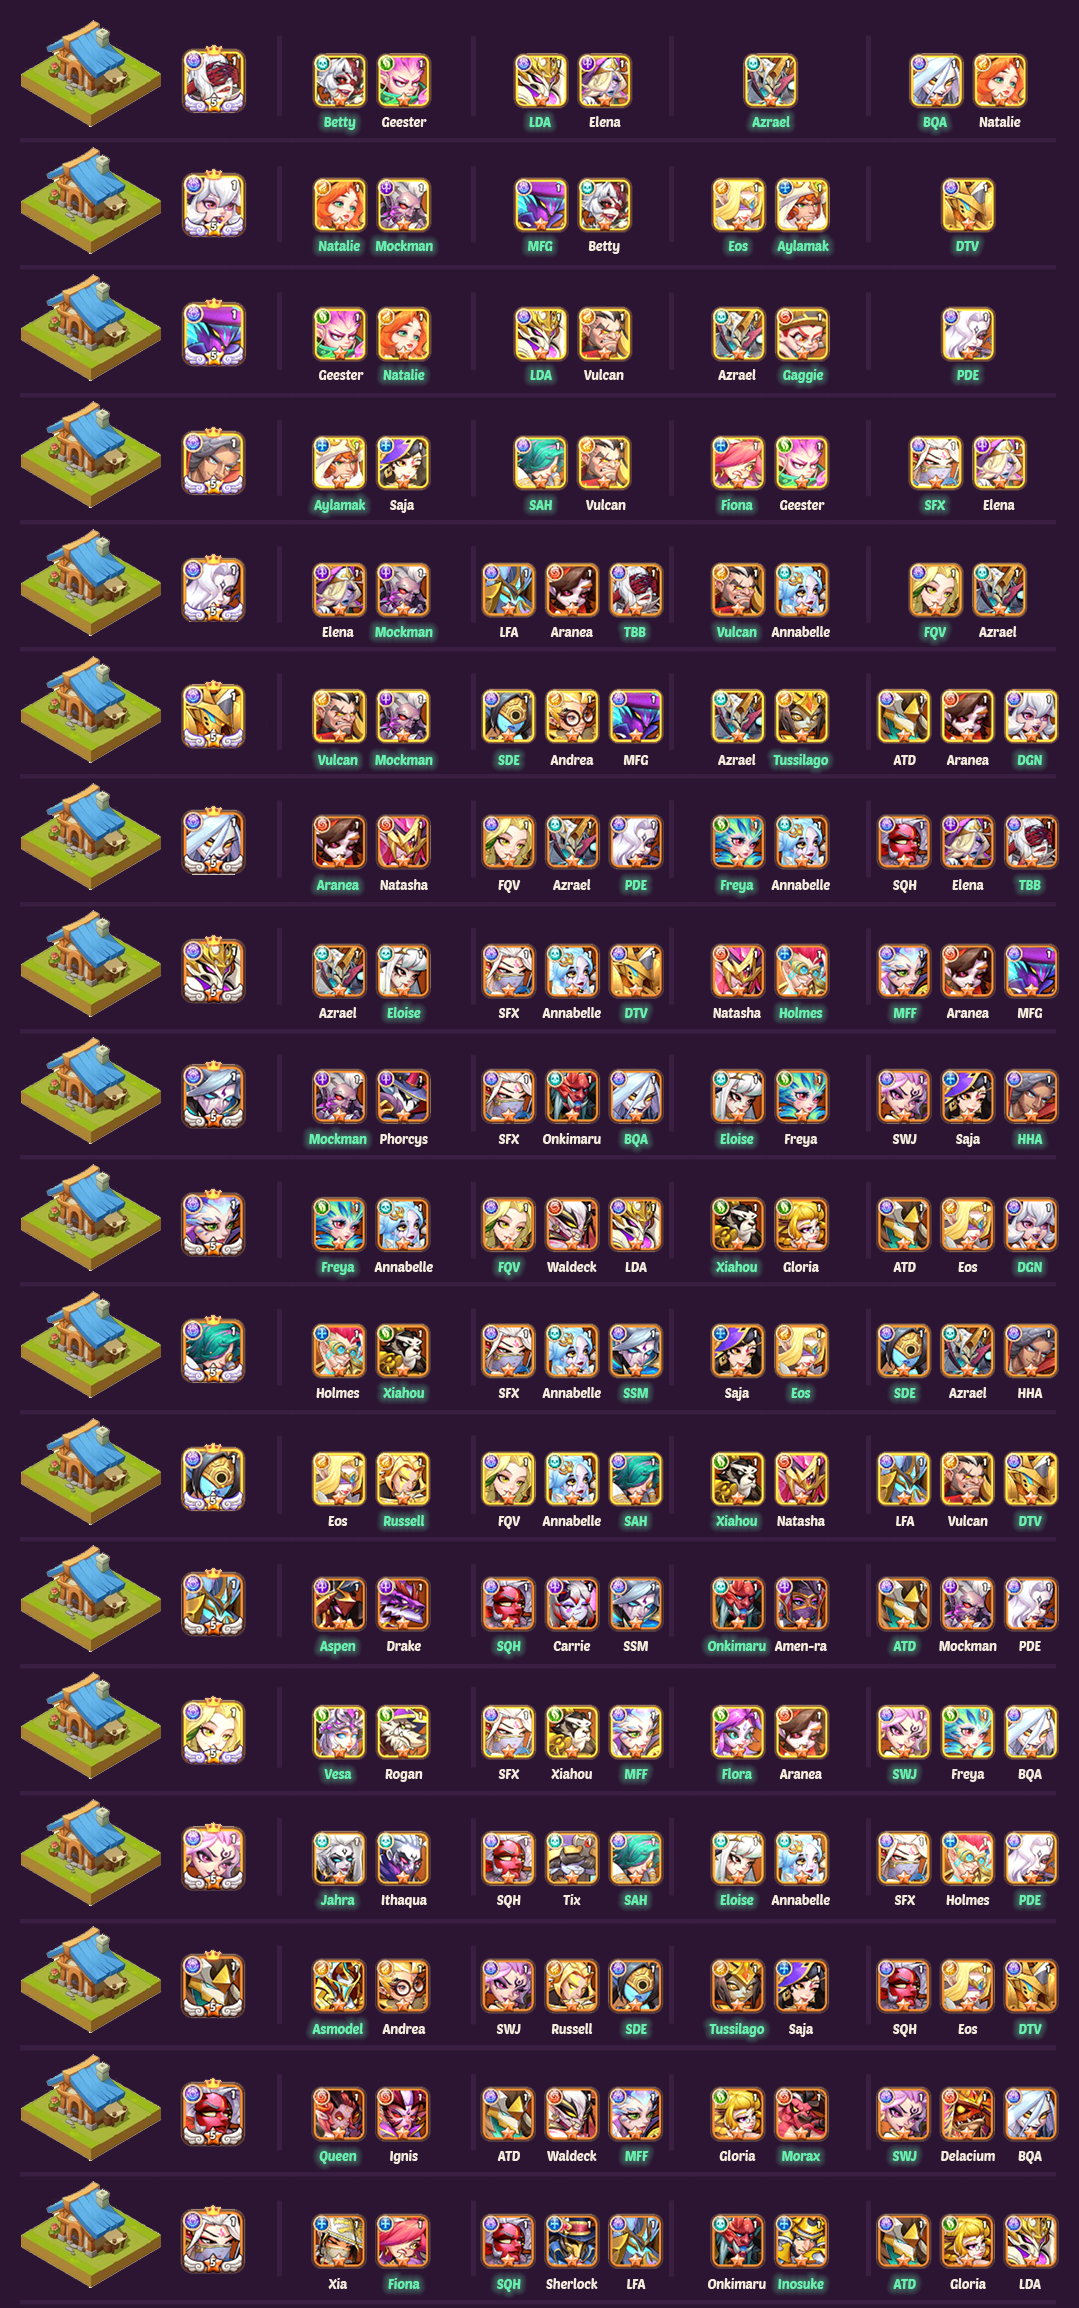
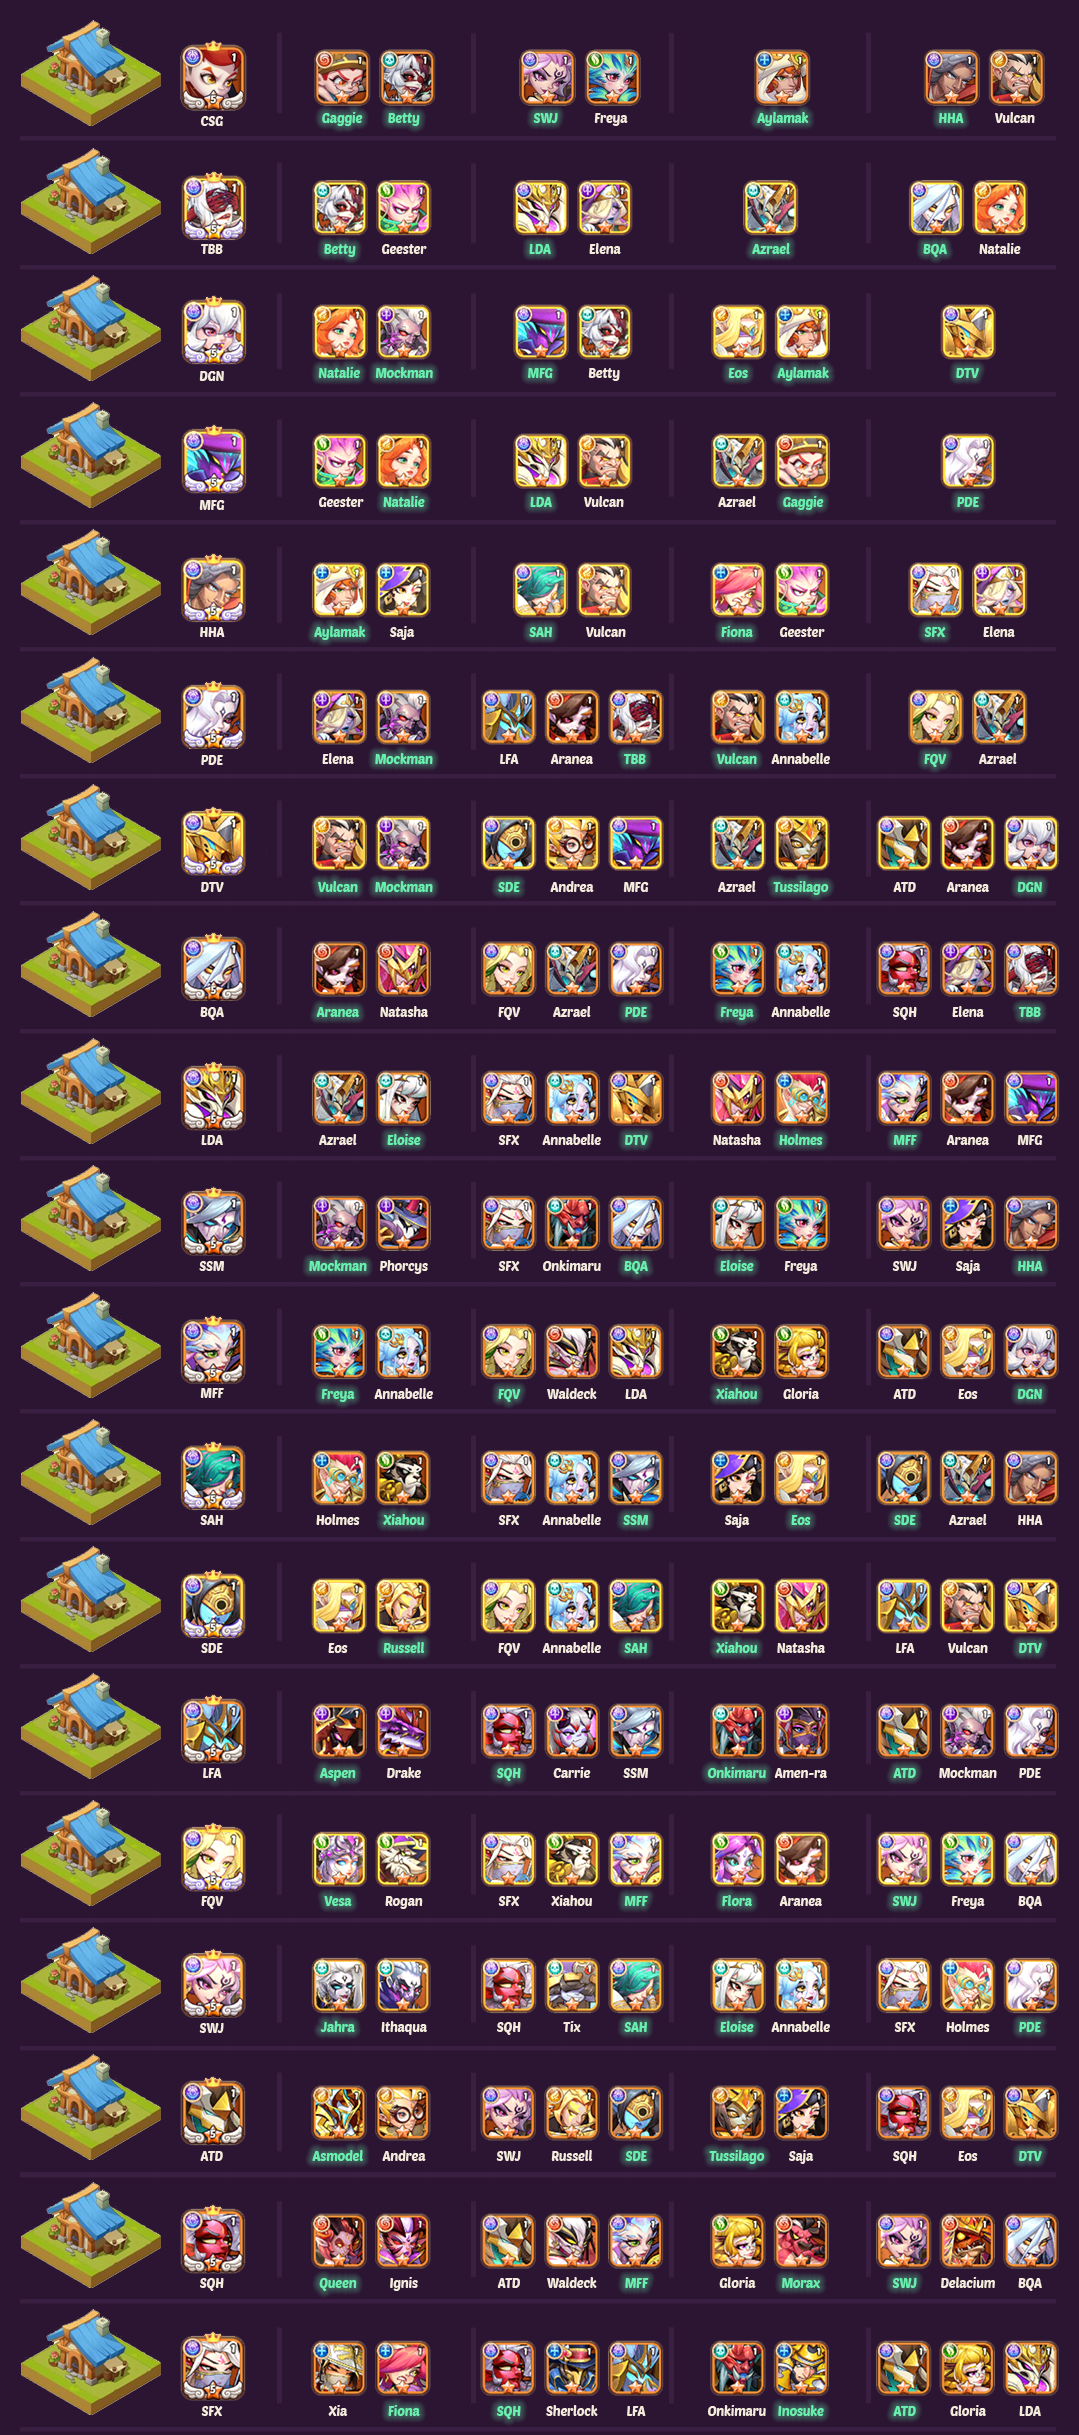
Update HO tenants

diff --git a/src/app/features/maximizing-ho-stats/maximizing-ho-stats.component.html b/src/app/features/maximizing-ho-stats/maximizing-ho-stats.component.html
@@ -10,7 +10,7 @@
     </div>
   </div>
   <div class="text-center">
-    <img class="img-responsive rounded-3" ngSrc="./assets/images/resources/tenants.png" alt="Max HO Stats" height="2308"
+    <img class="img-responsive rounded-3" ngSrc="./assets/images/resources/tenants.png" alt="Max HO Stats" height="2435"
          width="1079" priority="true"/>
   </div>
 </section>
